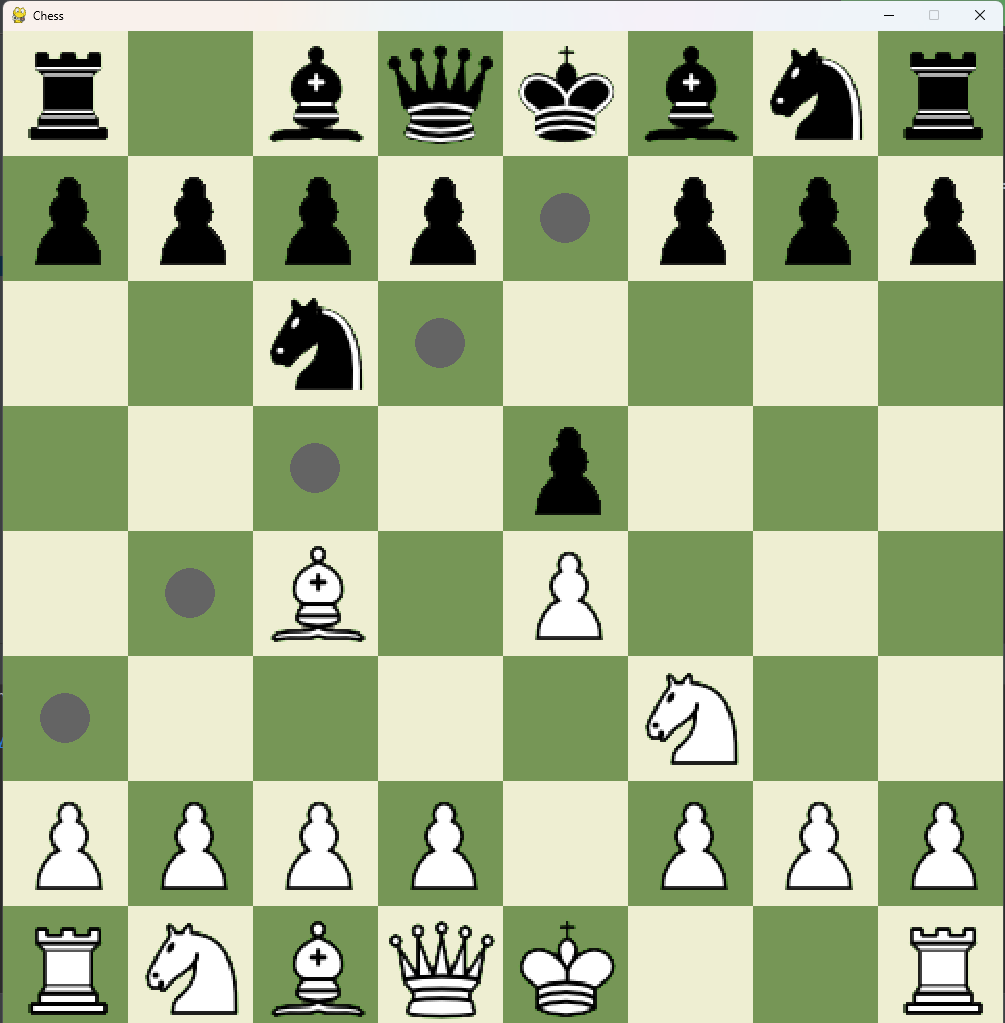
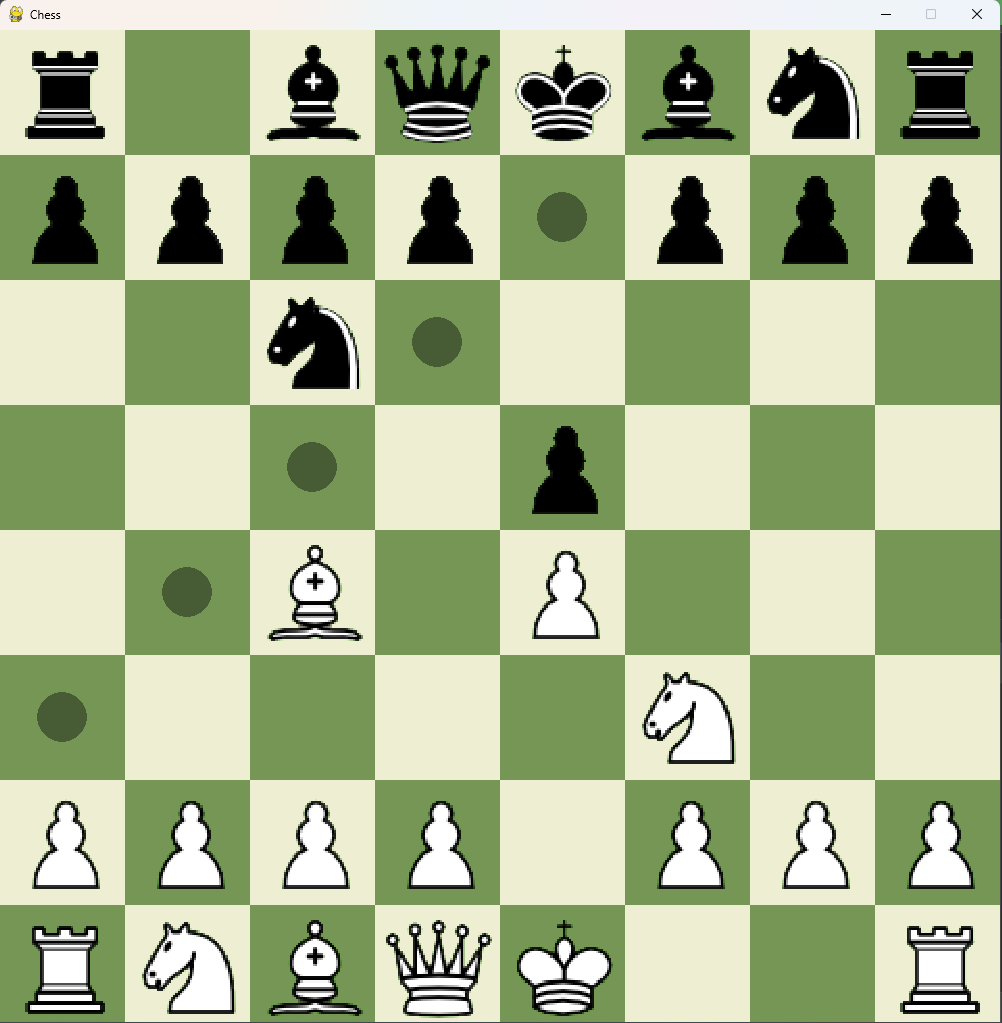
Changed dots

diff --git a/src/app.py b/src/app.py
@@ -28,6 +28,10 @@ class App:
         # Set the running flag to True
         self.running = True
 
+        # Set a semi-transparent point, to use it in update()
+        self.point = pygame.Surface((self.tile_width, self.tile_height), pygame.SRCALPHA)
+        pygame.draw.circle(self.point, (0, 0, 0, 100), (self.tile_width / 2, self.tile_height / 2), self.tile_width / 5)
+
         self.board = game_data['board']
         self.en_passant = game_data['en_passant']
         self.turn = game_data['turn']  # 0 for white, 1 for black
@@ -78,9 +82,7 @@ class App:
                 if self.board[j][i] is not None:
                     self.screen.blit(self.assets[self.board[j][i]], (i * self.tile_width, j * self.tile_height))
                 if (j, i) in self.legal_moves:
-                    pygame.draw.circle(self.screen, (100, 100, 100), (
-                    i * self.tile_width + self.tile_width / 2, j * self.tile_height + self.tile_height / 2),
-                                       self.tile_width / 5)
+                    self.screen.blit(self.point, ( i * self.tile_width , j * self.tile_height))
         pygame.display.update()
 
     def on_click(self, event: pygame.event.Event):

diff --git a/main.py b/main.py
@@ -77,7 +77,7 @@ def console_game(fen='rnbqkbnr/pppppppp/8/8/8/8/PPPPPPPP/RNBQKBNR w KQkq - 0 1')
         turn = 1 - turn
 
 
-def main(fen='rnbqkbnr/pppppppp/8/8/8/8/PPPPPPPP/RNBQKBNR w KQkq - 0 1'):
+def main(fen='r5QK/8/8/8/8/8/8/8 w - - 0 1'):
     """
     The main entry, start a game in a pygame window
 
@@ -102,6 +102,6 @@ def main(fen='rnbqkbnr/pppppppp/8/8/8/8/PPPPPPPP/RNBQKBNR w KQkq - 0 1'):
 
 if __name__ == '__main__':
     try:
-        main('r5QK/8/8/8/8/8/8/8 w - - 0 1')
+        main()
     except KeyboardInterrupt as e:
         print('\n\nBye, have a nice day!')
